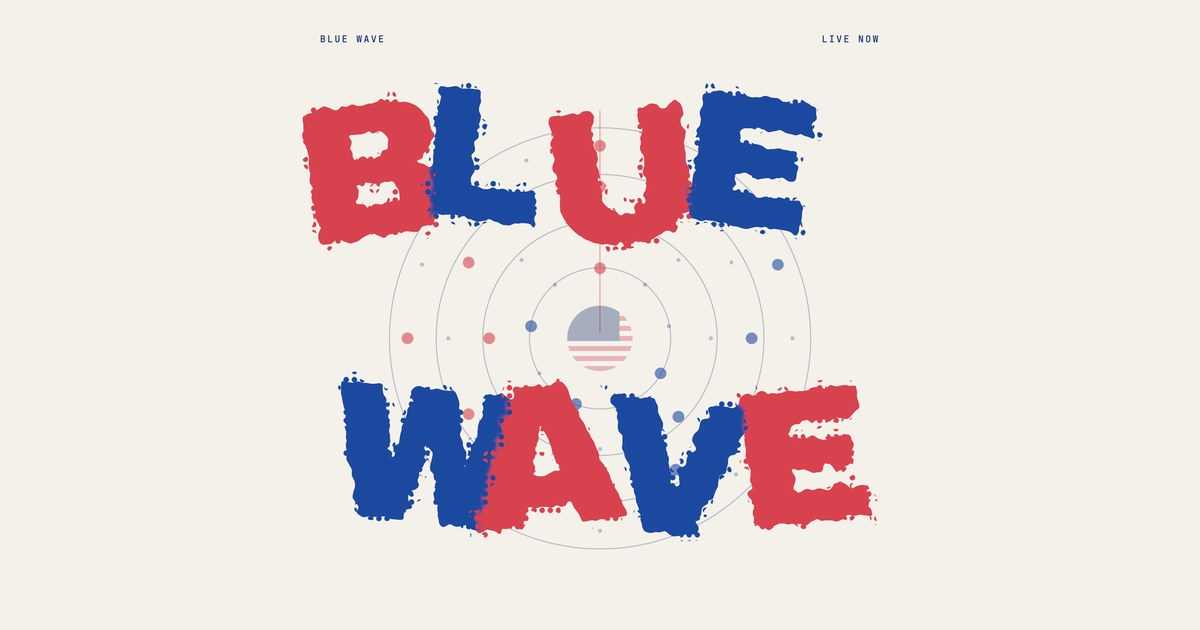
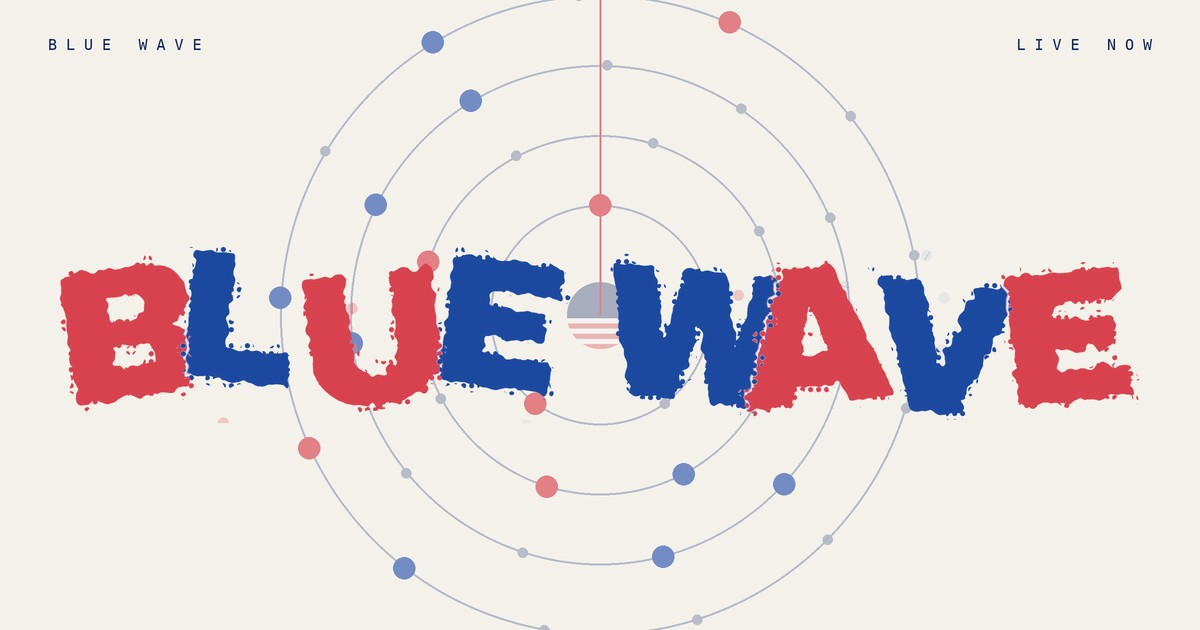
Blue Wave: widescreen share image, Blue Wave on one line over the rings
Claude-Session: https://claude.ai/code/session_01KE5AhiY5TaQwZWe6dJfXd9

diff --git a/blue-wave/index.html b/blue-wave/index.html
@@ -8,13 +8,13 @@
 <meta property="og:title" content="Blue Wave">
 <meta property="og:description" content="Live wave height and sea temperature, anywhere in the world, played as a rhythm.">
 <meta property="og:type" content="website">
-<meta property="og:image" content="https://threecities.forrestjamesmusic.com/blue-wave/og.jpg?v=2">
+<meta property="og:image" content="https://threecities.forrestjamesmusic.com/blue-wave/og.jpg?v=3">
 <meta property="og:image:width" content="1200">
 <meta property="og:image:height" content="630">
-<meta property="og:image:alt" content="Blue Wave in red and blue type over rhythm rings">
+<meta property="og:image:alt" content="Blue Wave in red and blue type on one line over rhythm rings">
 <meta property="og:url" content="https://threecities.forrestjamesmusic.com/blue-wave/">
 <meta name="twitter:card" content="summary_large_image">
-<meta name="twitter:image" content="https://threecities.forrestjamesmusic.com/blue-wave/og.jpg?v=2">
+<meta name="twitter:image" content="https://threecities.forrestjamesmusic.com/blue-wave/og.jpg?v=3">
 <link rel="preconnect" href="https://fonts.googleapis.com">
 <link rel="preconnect" href="https://fonts.gstatic.com" crossorigin>
 <link rel="stylesheet" href="https://fonts.googleapis.com/css2?family=Archivo+Black&family=Hanken+Grotesk:wght@200;300;400;500&family=JetBrains+Mono:wght@400;500&display=swap">
